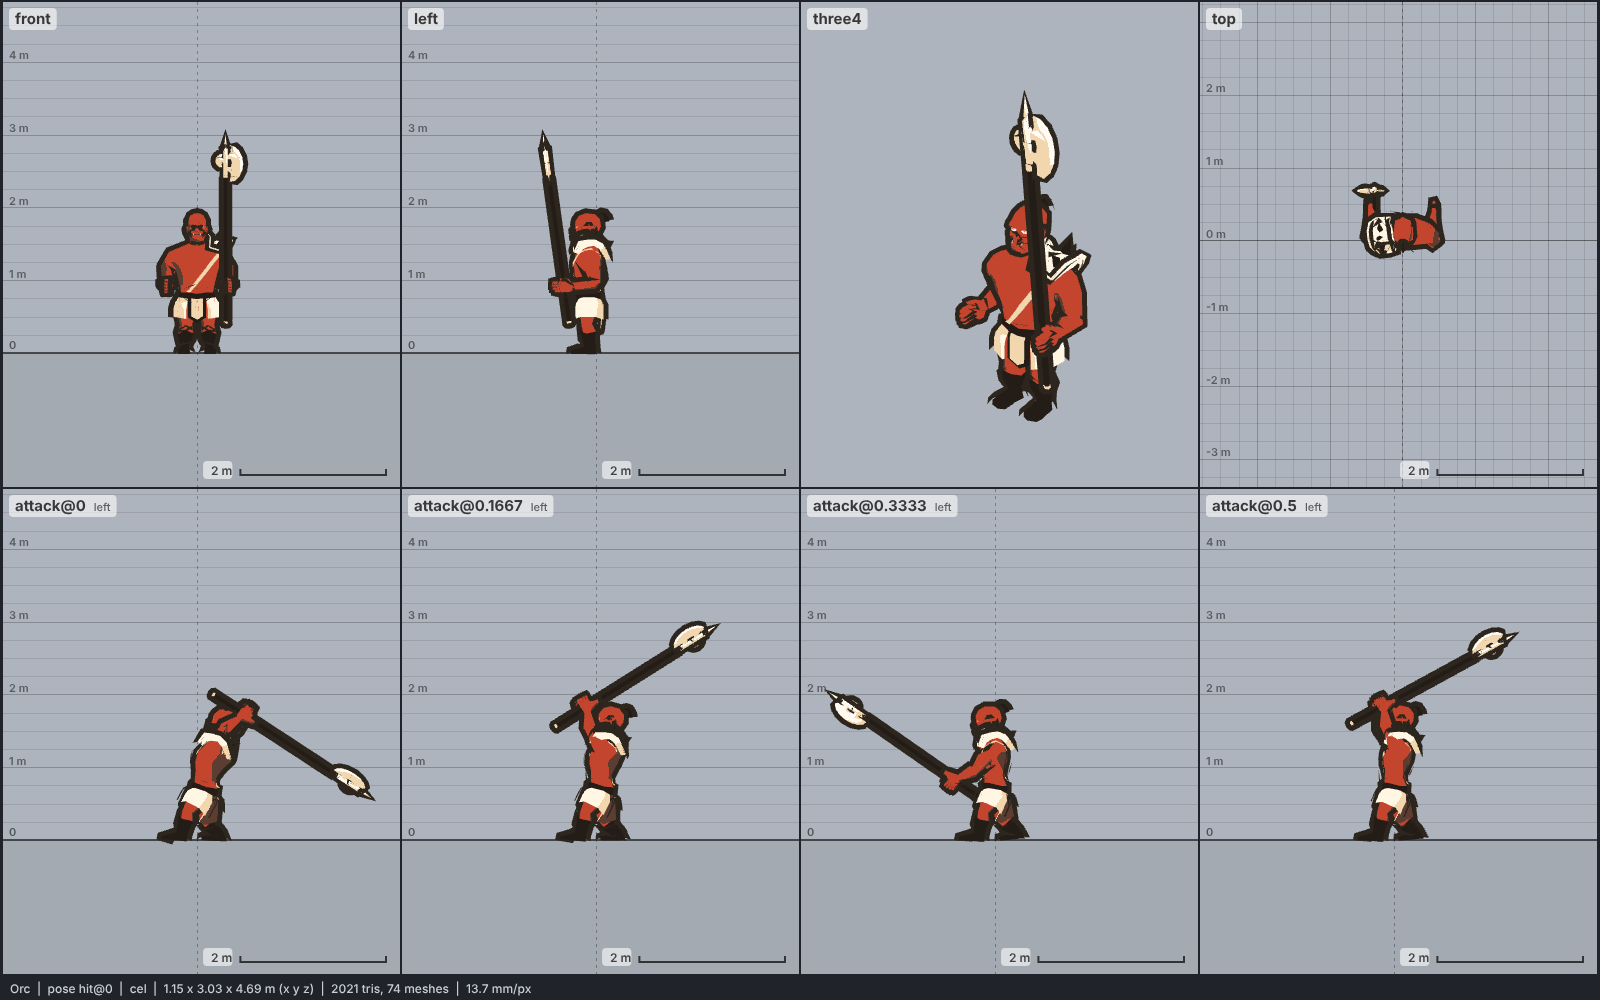
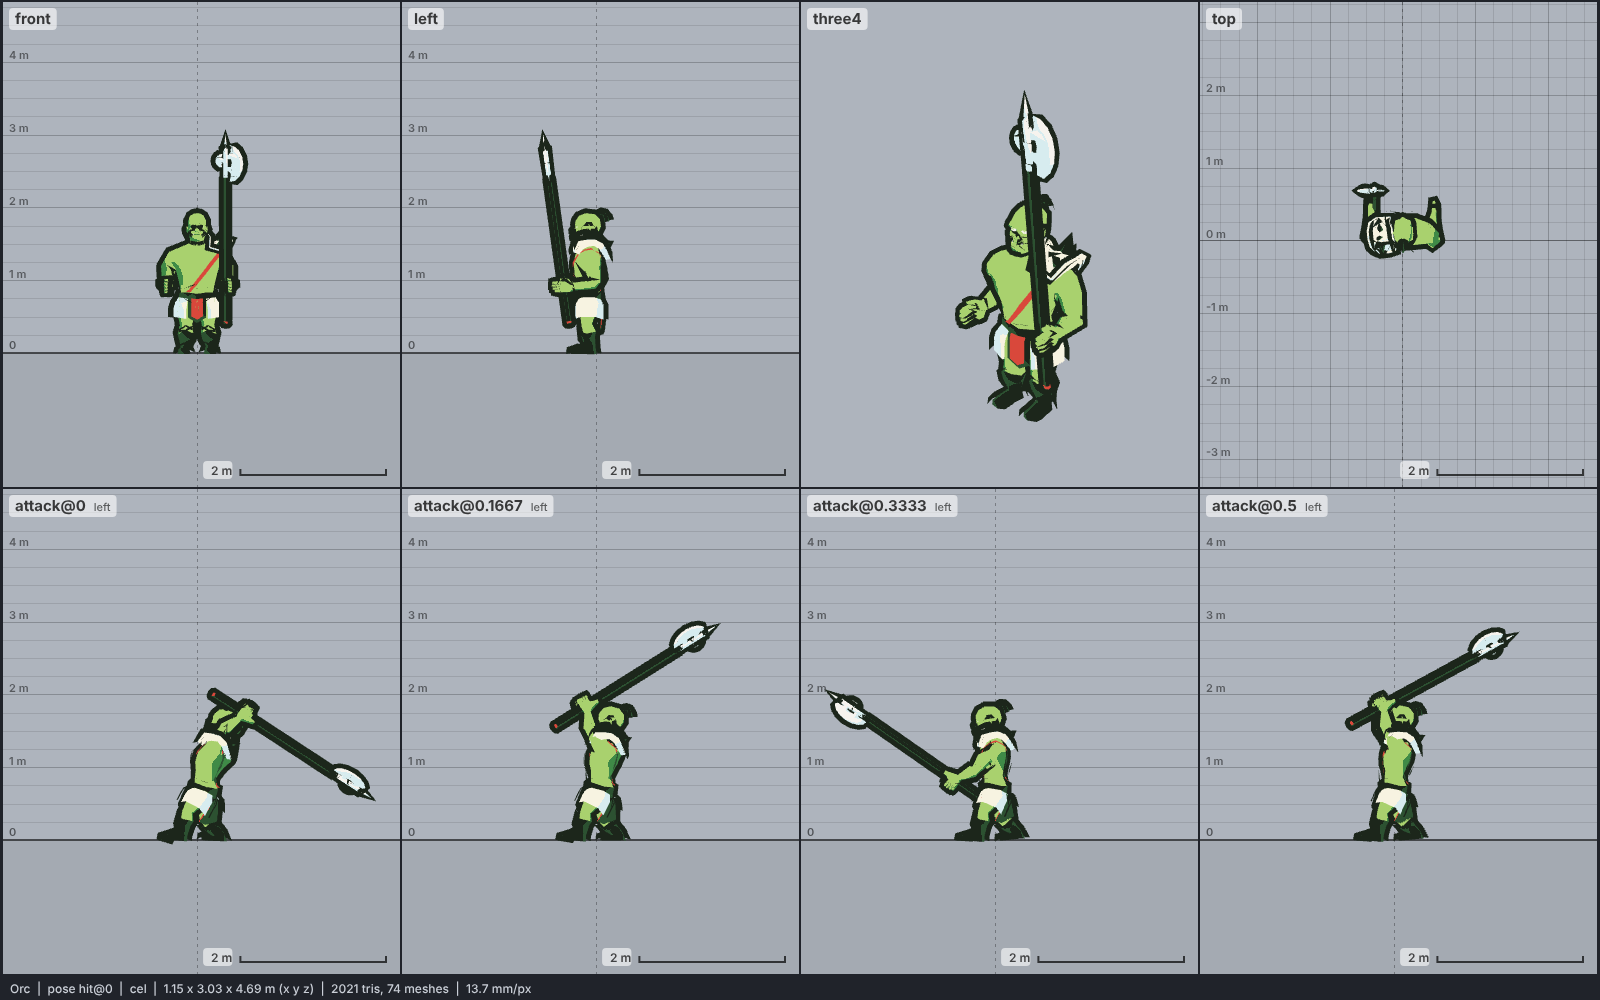
orc: recolour to the meadow script with green skin
Skin line over iris; ink/deep-green for hair, belt, boots and haft;
accent red loincloth panel and sash; moon/sky cloth and armour;
sclera/sky steel; teeth sclera over practical. Merged latest pipeline.

Claude-Session: https://claude.ai/code/session_01RarBCdt4E1fNHHaUKaW5GL

diff --git a/CREDITS.md b/CREDITS.md
@@ -3,4 +3,4 @@
 > Generated by `npm run library:catalog`. Models under a licence that requires attribution are credited here.
 > Every other library model is CC0 (public domain); its author and source are still recorded in `models/CATALOG.md`.
 
-- **Orc** (`models/library/orc`) by umask007 (base mesh by Clint Bellanger, face after MakeHuman), CC BY 3.0 (https://creativecommons.org/licenses/by/3.0/), from [umask007 · Ork (orc barbarian)](https://opengameart.org/content/orc-barbarian). Changes: kept the halberd and dropped the hidden weapons; dropped six of fourteen clips; replaced the baked skin texture with flat colours; rescaled to 1.95 m and recentred; recoloured to the noon script; meshopt-compressed GLB
+- **Orc** (`models/library/orc`) by umask007 (base mesh by Clint Bellanger, face after MakeHuman), CC BY 3.0 (https://creativecommons.org/licenses/by/3.0/), from [umask007 · Ork (orc barbarian)](https://opengameart.org/content/orc-barbarian). Changes: kept the halberd and dropped the hidden weapons; dropped six of fourteen clips; replaced the baked skin texture with flat colours; rescaled to 1.95 m and recentred; recoloured to the meadow script (green skin); meshopt-compressed GLB
